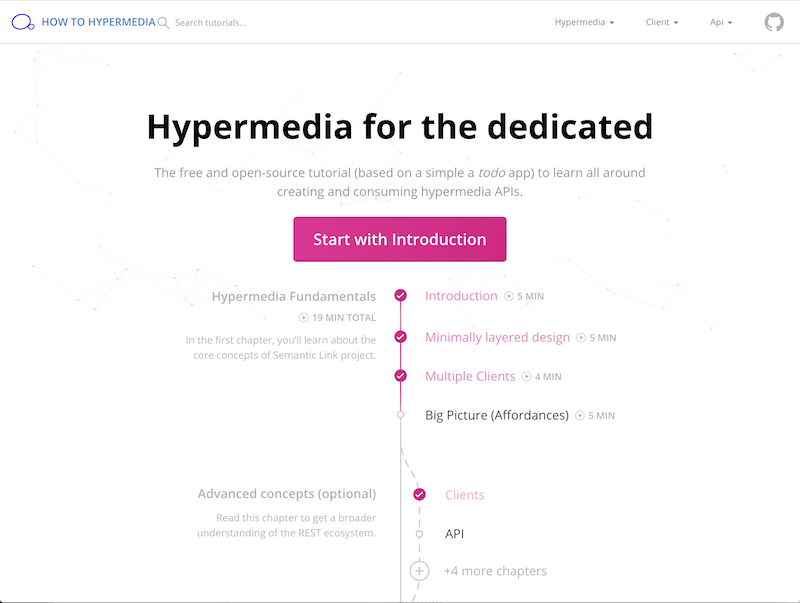
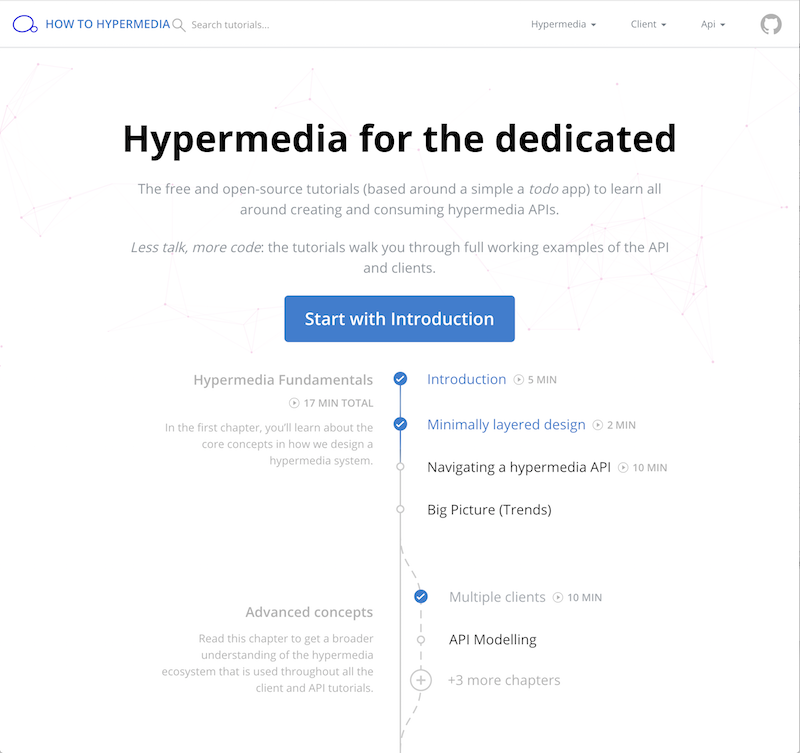
Re-theme to blue

diff --git a/src/components/Steps/DottedListItem.tsx b/src/components/Steps/DottedListItem.tsx
@@ -60,10 +60,10 @@ const DottedListItem = ({
           transition: color .15s ease-in-out;
         }
         .dotted-list-item:not(.done):hover {
-          color: $pink !important;
+          color: $blue !important;
         }
         .dotted-list-item:not(.done):hover::before {
-          border-color: $pink;
+          border-color: $blue;
           margin-top: -2px !important;
           left: -13px;
           width: 20px;
@@ -113,7 +113,7 @@ const DottedListItem = ({
         } /* first rules */
         .dotted-list-item.light.first:not(.small)::before,
         .dotted-list-item.active::before {
-          border-color: $pink !important;
+          border-color: $blue !important;
         }
         .dotted-list-item.light.first::before {
           margin-top: 0 !important;
@@ -128,7 +128,7 @@ const DottedListItem = ({
           padding-top: 0 !important;
         }
         .dotted-list-item.first.light:not(.small) :global(.list-item) {
-          @p: .pink;
+          @p: .blue;
         }
         .first .checkmark {
           margin-top: -5px;
@@ -146,7 +146,7 @@ const DottedListItem = ({
           background-image: linear-gradient(
             to top,
             rgba(225, 225, 225, 0.0),
-            $pink
+            $blue
           );
           width: 2px;
         }
@@ -218,7 +218,7 @@ const DottedListItem = ({
           @p: .white, .noUnderline;
         }
         .done:not(.active) :global(.title) {
-          color: #EB7BBC !important;
+          color: $blue !important;
         }
         .dotted-list-item:not(.first) .before-glow {
           @p: .db, .absolute;
@@ -227,7 +227,7 @@ const DottedListItem = ({
           left: -2px;
           background-image: linear-gradient(
             to top,
-            $pink 20%,
+            $blue 20%,
             rgba(225, 225, 225, 0.0)
           );
           width: 2px;
@@ -248,7 +248,7 @@ const DottedListItem = ({
           background-image: linear-gradient(
             to top,
             rgba(225, 225, 225, 0.0),
-            $pink 80%
+            $blue 80%
           );
           width: 2px;
         }
@@ -269,7 +269,7 @@ const DottedListItem = ({
           src={require('../../assets/icons/video.svg')}
           width={10}
           height={10}
-          color={$v.pink}
+          color={$v.blue}
         />
       </div>
       {done &&

diff --git a/src/components/Steps/OptionalDottedListItem.tsx b/src/components/Steps/OptionalDottedListItem.tsx
@@ -34,7 +34,7 @@ const OptionalDottedListItem = ({
           transition: border-color .15s ease-in-out;
         }
         div.optional-dotted-list-item.active::before {
-          border-color: $pink;
+          border-color: $blue;
         }
         .optional-dotted-list-item {
           @p: .pv16, .f20, .pl38, .relative;
@@ -56,13 +56,13 @@ const OptionalDottedListItem = ({
           @p: .black80;
         }
         div.optional-dotted-list-item.active :global(span) {
-          @p: .pink;
+          @p: .blue;
         }
         div.optional-dotted-list-item.small::before {
           margin-top: 3px;
         }
         .done:not(.active) :global(span) {
-          color: $pink40 !important;
+          color: $darkBlue40 !important;
         }
         .checkmark {
           @p: .absolute, .z2;
@@ -75,14 +75,14 @@ const OptionalDottedListItem = ({
 
         /* :hover */
         .optional-dotted-list-item:not(.done):hover::before {
-          border-color: $pink;
+          border-color: $blue;
           margin-top: 4px !important;
           left: -13px;
           width: 20px;
           height: 20px;
         }
         .optional-dotted-list-item.small:not(.done):hover::before {
-          border-color: $pink;
+          border-color: $blue;
           margin-top: -2px !important;
           left: -13px;
           width: 20px;
@@ -92,7 +92,7 @@ const OptionalDottedListItem = ({
           transition: color .15s ease-in-out;
         }
         .optional-dotted-list-item:hover :global(span) {
-          color: $pink !important;
+          color: $blue !important;
         }
         .small .play {
           margin-top: 5px;
@@ -118,7 +118,7 @@ const OptionalDottedListItem = ({
           src={require('../../assets/icons/video.svg')}
           width={10}
           height={10}
-          color={$v.pink}
+          color={$v.blue}
         />
       </div>
       {done &&

diff --git a/src/components/App.tsx b/src/components/App.tsx
@@ -166,11 +166,11 @@ export default function App({ children, history, steps, location }: Props) {
         } /* Reusable Components */
         .btn {
           @p: .white, .f25, .fw6, .dib, .lhTitle, .pointer;
-          background: linear-gradient(103deg, #EC1D97, #e00082);
-          background-color: $pink;
+          background: linear-gradient(103deg, $blue80, $blue);
+          background-color: $blue;
           background-position: 0 0 ;
           background-repeat: no-repeat;
-          border: solid 2px #e00083;
+          border: solid 2px #$blue;
           padding: 17px 30px 19px;
           border-radius: 6px;
           transition: background-position .25s ease, box-shadow .25s ease;
@@ -193,9 +193,9 @@ export default function App({ children, history, steps, location }: Props) {
           box-shadow: 0 1px 5px 0 rgba(0, 0, 0, 0.2);
         }
         .btn.passive {
-          @p: .ba, .bw2, .pink;
+          @p: .ba, .bw2, .blue;
           background: white;
-          border-color: $pink30;
+          border-color: $darkBlue30;
         }
         .btn.small {
           @p: .f20, .fw6, .pv16, .ph20;

diff --git a/src/components/Success/Result.tsx b/src/components/Success/Result.tsx
@@ -105,7 +105,7 @@ function Result({ steps, ...state }: Props & QuizState) {
           fill: #e00082;
         }
         h1 {
-          @p: .fw6, .pink;
+          @p: .fw6, .blue;
           font-size: 30px;
         }
         p {
@@ -189,23 +189,23 @@ function Bar({ items, title }: BarProps) {
           @p: .mr4;
         }
         .label {
-          @p: .f12, .fw6, .pink70, .ttu, .mt16;
+          @p: .f12, .fw6, .blue, .ttu, .mt16;
         }
         .l-0 {
           @p: .ba;
           border-color: rgba(0, 0, 0, .15);
         }
         .l-1 {
-          @p: .bgPink40;
+          @p: .bgDarkBlue40;
         }
         .l-2 {
-          @p: .bgPink60;
+          @p: .bgDarkBlue60;
         }
         .l-3 {
-          @p: .bgPink80;
+          @p: .bgDarkBlue80;
         }
         .l-4 {
-          @p: .bgPink;
+          @p: .bgBlue;
         }
         @media (max-width: 580px) {
           div.bar + div.bar {

diff --git a/src/components/Search/Results.tsx b/src/components/Search/Results.tsx
@@ -69,7 +69,7 @@ class Results extends React.Component<Props, {}> {
           .result :global(a) {
             display: inline-block;
             font-weight: 500;
-            color: $pink;
+            color: $blue;
             font-size: 15px;
             margin-right: 5px;
             margin-bottom: 5px;
@@ -102,7 +102,7 @@ class Results extends React.Component<Props, {}> {
               {index === selectedIndex &&
                 <Icon
                   src={require('graphcool-styles/icons/stroke/arrowRight.svg')}
-                  color={$v.pink}
+                  color={$v.blue}
                   stroke={true}
                   strokeWidth={4}
                   width={10}

diff --git a/src/components/Quiz/Quiz.tsx b/src/components/Quiz/Quiz.tsx
@@ -76,7 +76,7 @@ class Quiz extends React.Component<Props & QuizState, {}> {
             content: "";
           }
           .quiz-title .title {
-            @p: .pink, .bgWhite, .ph10, .f14, .fw6, .z2, .ttu, .tracked;
+            @p: .blue, .bgWhite, .ph10, .f14, .fw6, .z2, .ttu, .tracked;
           }
           .question {
             @p: .tc, .fw6, .mt38, .lhTitle, .center;
@@ -253,7 +253,7 @@ function Answer({ text, onClick, checked, correct }: AnswerProps) {
           @p: .ml16, .black50, .f16;
         }
         .answer.checked.correct span {
-          @p: .pink;
+          @p: .blue;
         }
         .answer.checked:not(.correct) span {
           @p: .strike, .black20;

diff --git a/src/components/Steps/Steps.tsx b/src/components/Steps/Steps.tsx
@@ -36,7 +36,7 @@ export default function Steps({
     <div className={cn('steps', { pinkBorder })}>
       <style jsx={true}>{`
         .steps.pinkBorder :global(.dotted-list-item) {
-          border-left-color: $pink;
+          border-left-color: $blue;
         }
         .list-item {
           @p: .itemsCenter, .flex;
@@ -49,7 +49,7 @@ export default function Steps({
           @p: .black80, .db, .relative, .z2;
         }
         .active :global(.title) {
-          color: $pink !important;
+          color: $blue !important;
         }
       `}</style>
       {(steps || []).map((step, index) => {

diff --git a/src/components/NewsletterSignup.tsx b/src/components/NewsletterSignup.tsx
@@ -29,7 +29,7 @@ export default class NewsletterSignup extends React.Component<Props, State> {
       <button className={cn({ invalid })} onClick={this.submit}>
         <style jsx={true}>{`
           button {
-            @p: .bgPink, .white, .br2, .flexFixed, .f16, .fw6, .pv10, .ph16, .pointer, .ttu, .buttonShadow;
+            @p: .bgBlue, .white, .br2, .flexFixed, .f16, .fw6, .pv10, .ph16, .pointer, .ttu, .buttonShadow;
             border: none;
           }
           button.invalid {

diff --git a/src/components/Steps/OptionalSteps.tsx b/src/components/Steps/OptionalSteps.tsx
@@ -75,7 +75,7 @@ export default class OptionalSteps extends React.Component<Props, State> {
             @p: .flex, .bl, .bw2, .bBlack20, .pb25, .relative, .bbox;
           }
           .optional-steps.mainPink::before {
-            @p: .absolute, .top0, .bottom0, .bgPink, .z2;
+            @p: .absolute, .top0, .bottom0, .bgBlue, .z2;
             content: "";
             left: -2px;
             width: 2px;

diff --git a/src/components/StackChooser.tsx b/src/components/StackChooser.tsx
@@ -121,8 +121,8 @@ class StackChooser extends React.Component<Props, {}> {
           }
           .coming-soon {
             @p: .ttu, .br2, .ba, .dib, .relative, .fw6, .mt10;
-            color: $pink;
-            border-color: $pink;
+            color: $blue;
+            border-color: $blue;
             font-size: 10px;
             padding: 3px 7px;
           }

diff --git a/src/components/Steps/TutorialTitleStep.tsx b/src/components/Steps/TutorialTitleStep.tsx
@@ -14,7 +14,7 @@ export default function TutorialTitleStep({ title, pinkLine }: Props) {
           @p: .bl, .bBlack20, .pb25, .pl25, .relative, .bw2;
         }
         .tutorial-title-step.pinkLine {
-          border-color: $pink;
+          border-color: $blue;
         }
         h3 {
           @p: .black30, .f14, .ttu, .fw6, .mb25, .tracked;

diff --git a/src/components/Quiz/Unlocked.tsx b/src/components/Quiz/Unlocked.tsx
@@ -25,7 +25,7 @@ export default function Unlocked({ n }: Props) {
           background-color: #fafafa;
         }
         .well-done span {
-          @p: .pink, .ph10, .f20, .fw6, .z2, .relative;
+          @p: .blue, .ph10, .f20, .fw6, .z2, .relative;
         }
         .well-done :global(canvas) {
           top: -2px !important;
